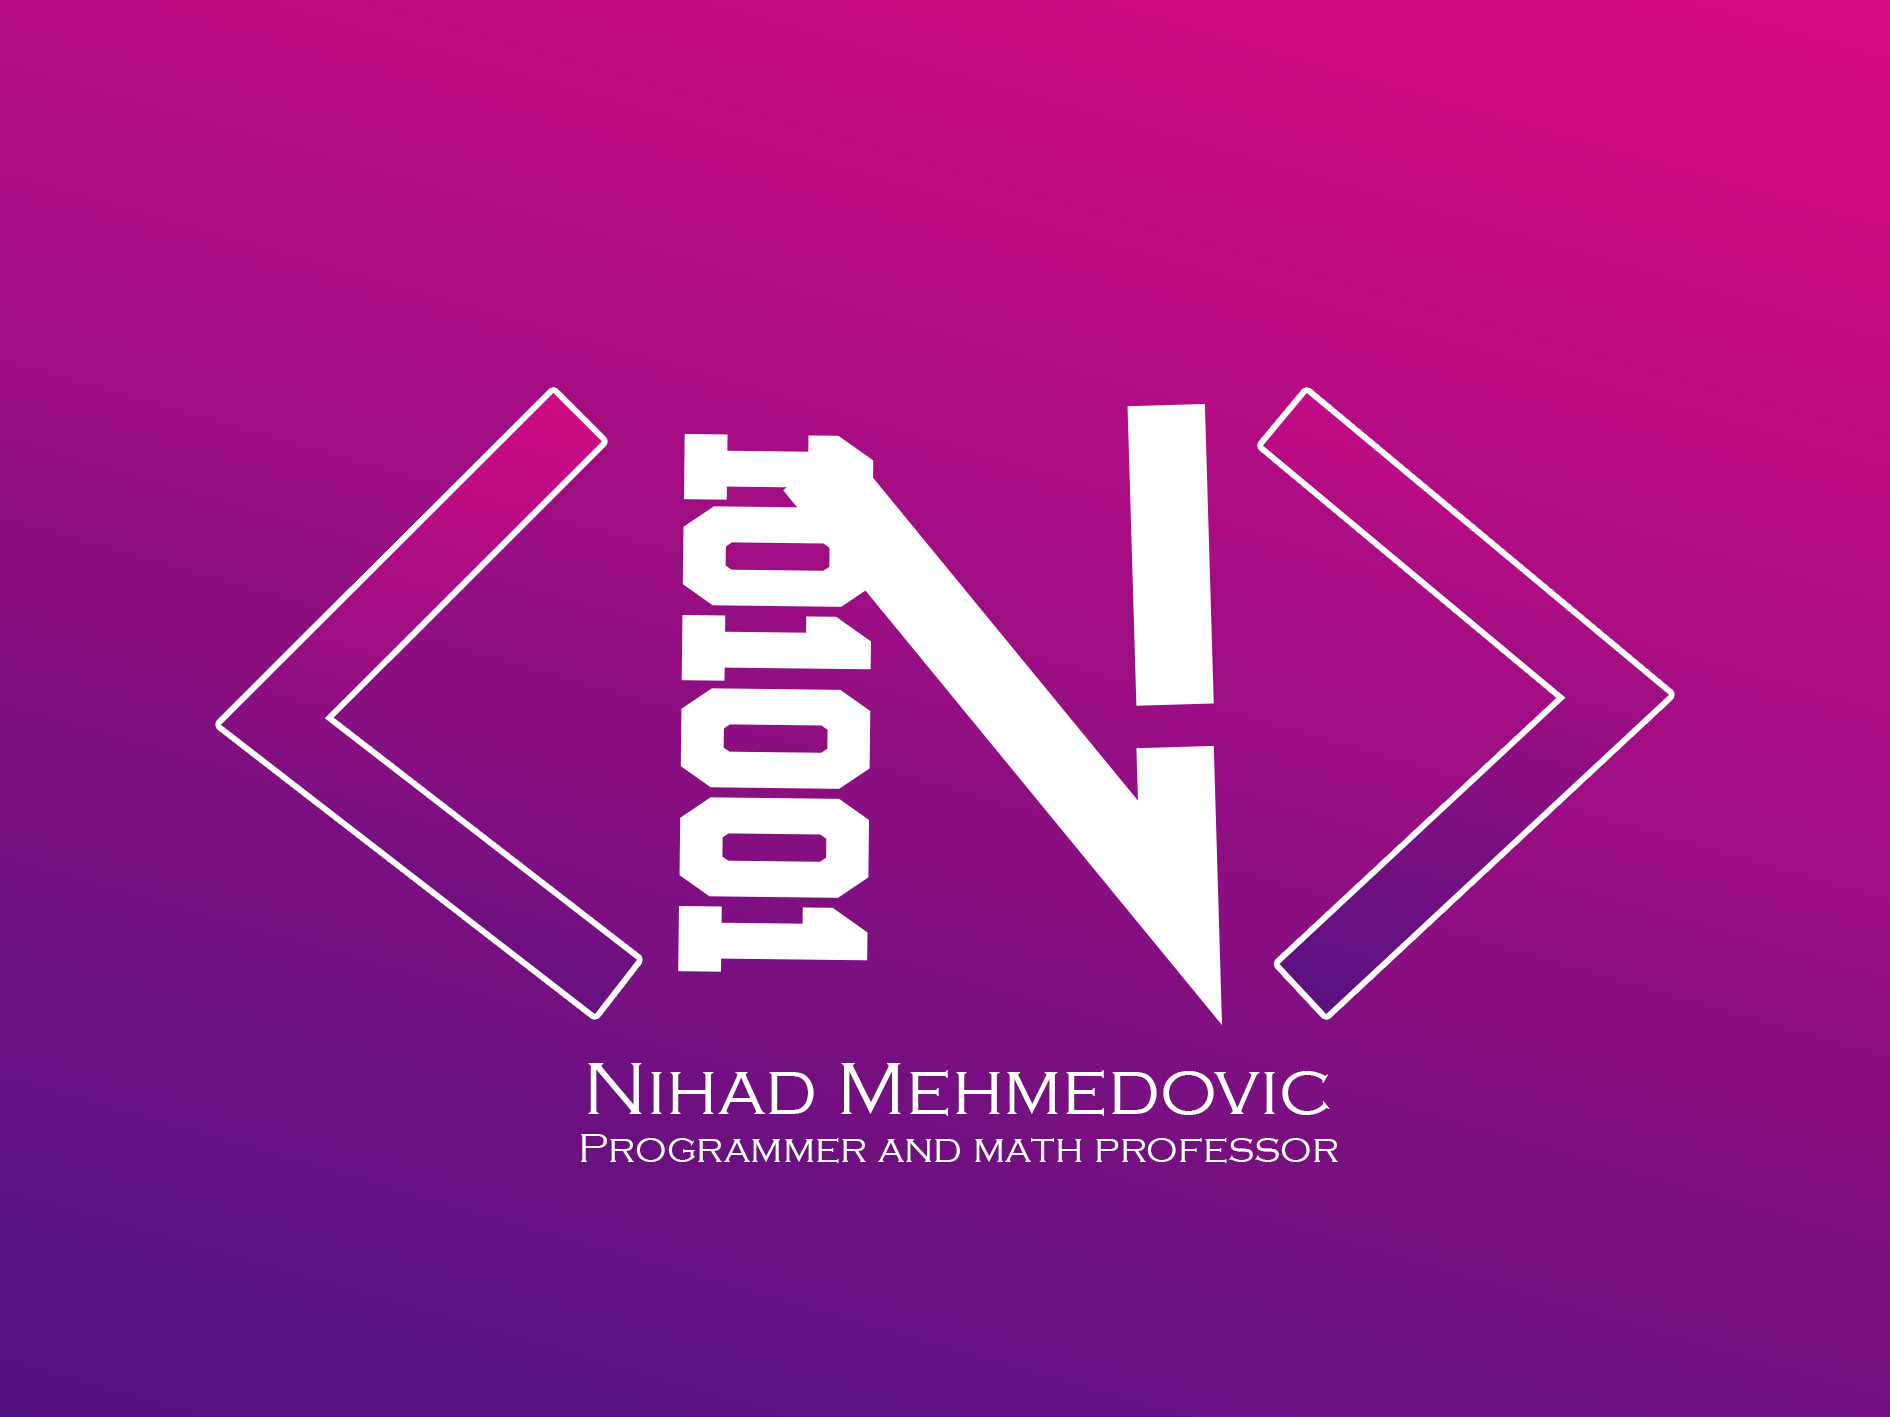
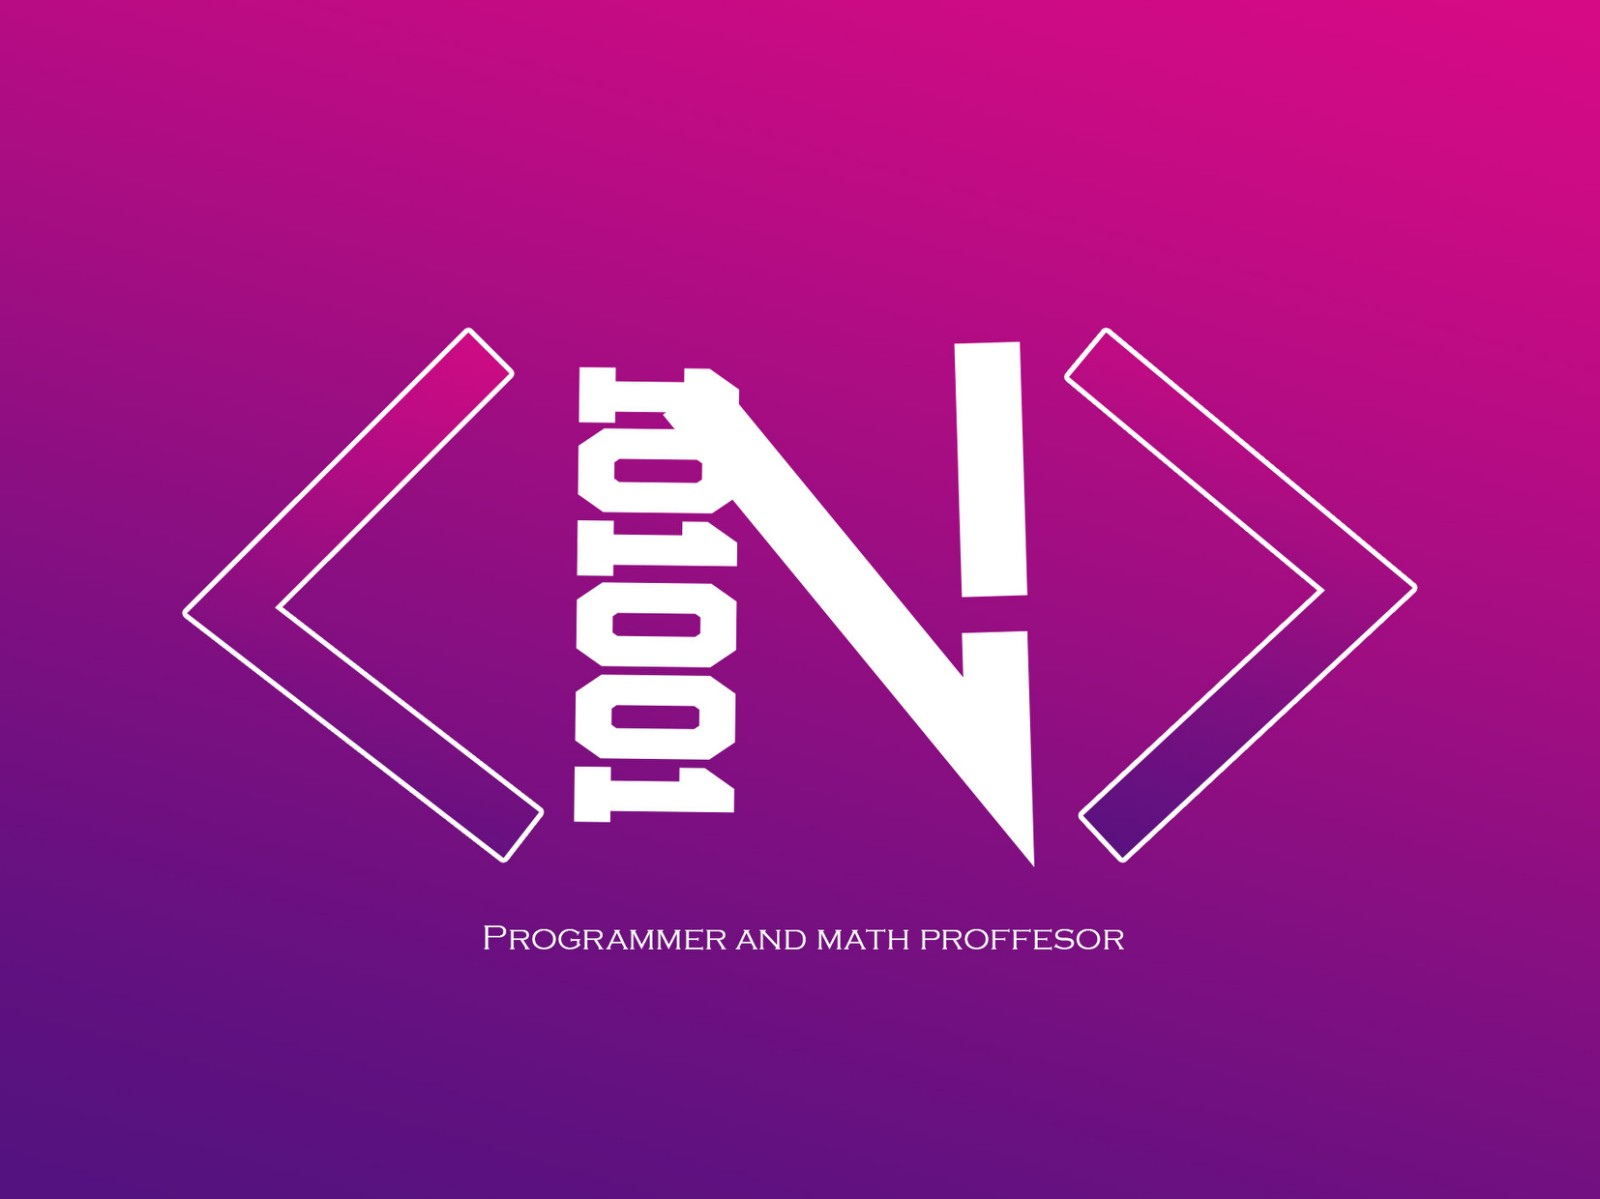
Add files via upload

Changed region(s): [[0.2812, 0.7406, 0.7188, 0.8332]]

diff --git a/service.html b/service.html
@@ -11,13 +11,14 @@
     <header>
     <div class="container">
     <div id="branding"> 
-    <h1><span style="color:rgb(230, 70, 13)">Informatika</span> zadaci za vježbu</h1>
+    <h1><img src="slika.jpg" width="65" height="65">
+        <span style="color:#BC0E84">Informatika</span> zadaci za vježbu</h1>
     </div>
     <nav>
         <ul>
             <li><a href="index.html">Početna</a></li>
             <li><a href="about.html">Opis</a></li>
-            <li><a href="#"><span style="color:rgb(230, 70, 13)">Zadaci</span></a></li>
+            <li><a href="#"><span style="color:#BC0E84">Zadaci</span></a></li>
             <li><a href="contact.html">Kontakt</a></li>
         </ul>
     </nav>
@@ -29,30 +30,30 @@
         <h1>Zadaci</h1>
         <ul id="serv">
         <li>
-            <h1>1. Petlja</h1>
-            <p>Koristeci for petlju ispisati sve brojeve od 1 do 10</p>
+            <h1>1. Lista</h1>
+            <p>Korisnik unosi n brojeva, nakon sto unese sve brojeve ispisuju se svi uneseni brojevi od prvog do zadnjeg</p>
         </li>
     
         <li>
-            <h1>2. Unos + Petlja</h1>
-            <p>Korisnik unosi broj n i ispisuju se svi brojevi od 1 do n</p>
+            <h1>2. Lista od zadnjeg</h1>
+            <p>Korisnik unosi n brojeva, nakon sto unese sve brojeve ispisuju se svi uneseni brojevi od zadnjeg do prvog</p>
         </li>
         
         <li>
-            <h1>3. Parni</h1>
-            <p>Korisnik unese broj n i ispisuju se svi parni brojevi manji ili jednaki od n</p>
+            <h1>3. Lista parni</h1>
+            <p>Korisnik unosi n brojeva, nakon sto unese sve brojeve ispisuju se svi parni brojevi od prvog do zadnjeg</p>
         </li>
         <li>
-            <h1>4. Neparni</h1>
-            <p>Korisnik unese broj n i ispisuju se svi neparni brojevi manji ili jednaki od n</p>
+            <h1>4. Lista prosti *</h1>
+            <p>Korisnik unosi n brojeva, nakon sto unese sve brojeve ispisuju se svi prosti brojevi od prvog do zadnjeg</p>
         </li>
         <li>
-            <h1>5. Unos n brojeva</h1>
-            <p>Korisnik unosi broj n, nakon toga korisnik unosi tacno n brojeva, program ispisuje svih n unesenih brojeva. (Ne ispisuje prvi uneseni broj)</p>
+            <h1>5. Lista prosti 2*</h1>
+            <p>Korisnik unosi n brojeva, nakon sto unese sve brojeve ispisuju se zadnji prosti broj koji je unesen</p>
         </li>
         <li>
-            <h1>6. Prost*</h1>
-            <p>Korisnik unosi broj n i ispisuju se svi prosti brojevi manji ili jednaki od n</p>
+            <h1>6. Trostruki</h1>
+            <p>Korisnik unosi n brojeva a1, a2, ... , an, nakon sto unese sve brojeve ispisuju se svi uneseni brojevi pomnozeni sa tri</p>
         </li>
         <li>
             <h1>7. Zbir</h1>
@@ -91,16 +92,16 @@
             </p>
         </li>
         <li>
-            <h1>15. Površina pravouglog trougla</h1>
-            <p>Korisnik unosi dužine kateta pravouglog trougla i ispisuje kolika mu je površina.</p>
+            <h1>15. Dan u sedmici ***</h1>
+            <p>Korisnik unosi datum, program ispisuje koji je to dan u sedmici</p>
         </li>
         <li>
             <h1>16. Zbir sa uslovom</h1>
             <p>Korisnik unosi broj djeljiv sa tri, program ispisuje dali je zbir prve 2/3 brojeva veci od zbira ostatka brojeva.</p>
         </li>
         <li>
-            <h1>17. Najmanji broj</h1>
-            <p>Korisnik unosi broj n, nakon toga se unosi n brojeva, program ispisuje najmanji od unesenih n brojeva.</p>
+            <h1>17. Najmanji paran broj</h1>
+            <p>Korisnik unosi broj n, nakon toga se unosi n brojeva, program ispisuje najmanji paran broj od unesenih n brojeva.</p>
         </li>
         <li>
             <h1>18. Zbir + razlika*</h1>
@@ -121,7 +122,7 @@
     
     
     <footer id="footer-main">
-        <p>Nihad Mehmedović &copy; 2022;</p>
+        <p>Nihad Mehmedović &copy; 2022; Logo designer Ardan Bečić</p>
 
     </footer>
     

diff --git a/contact.html b/contact.html
@@ -11,14 +11,15 @@
     <header>
     <div class="container">
     <div id="branding"> 
-    <h1><span style="color:rgb(230, 70, 13)">Informatika</span> zadaci za vježbu</h1>
+    <h1><img src="slika.jpg" width="65" height="65">
+        <span style="color:#BC0E84">Informatika</span> zadaci za vježbu</h1>
     </div>
     <nav>
         <ul>
             <li><a href="index.html">Početka</a></li>
             <li><a href="about.html">Opis</a></li>
             <li><a href="service.html">Zadaci</a></li>
-            <li><a href="#"><span style="color:rgb(230, 70, 13)">Kontakt</span></a></li>
+            <li><a href="#"><span style="color:#BC0E84">Kontakt</span></a></li>
         </ul>
     </nav>
     </div>  
@@ -29,6 +30,7 @@
                 <h1>Kontakt</h1>
                 
                     <p>Nastavnik: Nihad Mehmedović</p>
+                    <img src="slika.jpg" width="265" height="265">
                     <p>Email : <a style ="text-decoration:none" href="#">nihadm97@outlook.com</a></p>
                 </article>
                     <aside id="sidebar-2">
@@ -49,7 +51,7 @@
     
     
     <footer id="footer-main">
-        <p>Nihad Mehmedović &copy; 2022;</p>
+        <p>Nihad Mehmedović &copy; 2022; Logo designer Ardan Bečić</p>
 
     </footer>
     

diff --git a/index.html b/index.html
@@ -11,11 +11,12 @@
     <header>
     <div class="container">
     <div id="branding"> 
-    <h1><span style="color:rgb(230, 70, 13)">Informatika</span> zadaci za vježbu</h1>
+    <h1><img src="slika.jpg" width="65" height="65">
+        <span style="color:#BC0E84">Informatika</span> zadaci za vježbu</h1>
     </div>
     <nav>
         <ul>
-            <li><a href="#"><span style="color:rgb(230, 70, 13)">Početna</span></a></li>
+            <li><a href="#"><span style="color:#BC0E84">Početna</span></a></li>
             <li><a href="about.html">Opis</a></li>
             <li><a href="service.html">Zadaci</a></li>
             <li><a href="contact.html">Kontakt</a></li>
@@ -46,14 +47,14 @@
             </div>
         <div class="Box">
                 <div class="box1"></div>
-                <h2>Python</h2>
+                <h2>Python / Računarske mreže</h2>
                 <p>Trenutna lekcija</p>
             </div>
             </div>
             </div>
         </section>
     <footer id="footer-main">
-        <p>Nihad Mehmedović &copy; 2022;</p>
+        <p>Nihad Mehmedović &copy; 2022; Logo designer Ardan Bečić</p>
 
     </footer>
     

diff --git a/about.html b/about.html
@@ -11,12 +11,13 @@
     <header>
     <div class="container">
     <div id="branding"> 
-    <h1><span style="color:rgb(230, 70, 13)">Informatika</span> zadaci za vježbu</h1>
+    <h1><img src="slika.jpg" width="65" height="65">
+        <span style="color:#BC0E84">Informatika</span> zadaci za vježbu</h1>
     </div>
     <nav>
         <ul>
             <li><a href="index.html">Početna</a></li>
-            <li><a href="#"><span style="color:rgb(230, 70, 13)">Opis</span></a></li>
+            <li><a href="#"><span style="color:#BC0E84">Opis</span></a></li>
             <li><a href="service.html">Zadaci</a></li>
             <li><a href="contact.html">Kontakt</a></li>
         </ul>
@@ -34,7 +35,7 @@
         </div>
 </section>  
     <footer id="footer-main">
-        <p>Nihad Mehmedović &copy; 2022;</p>
+        <p>Nihad Mehmedović &copy; 2022; Logo designer Ardan Bečić</p>
 
     </footer>
     

diff --git a/style.css b/style.css
@@ -27,7 +27,7 @@ header{
     background-color: rgba(39, 38, 38, 0.959);
     padding: 8px;
     min-height: 70px;
-    border-bottom: rgb(230, 70, 13) 3px solid;
+    border-bottom: #BC0E84 3px solid;
     height: 90px;
 }
 ul{
@@ -110,7 +110,7 @@ header #branding h1{
     padding: 5px;
     width: 120px;
     height: 30px;
-    background-color: rgb(230, 70, 13);
+    background-color: #BC0E84	;
     color: #fff;
     border: none;
     font-size: 15px;
@@ -192,7 +192,7 @@ aside#sidebar-2 img{
 
 footer{
     text-align: center;
-    background-color:  rgb(230, 70, 13);
+    background-color:  #6F1281;
     min-height: 50px;
     margin-top: 10px;
     padding: 10px;
